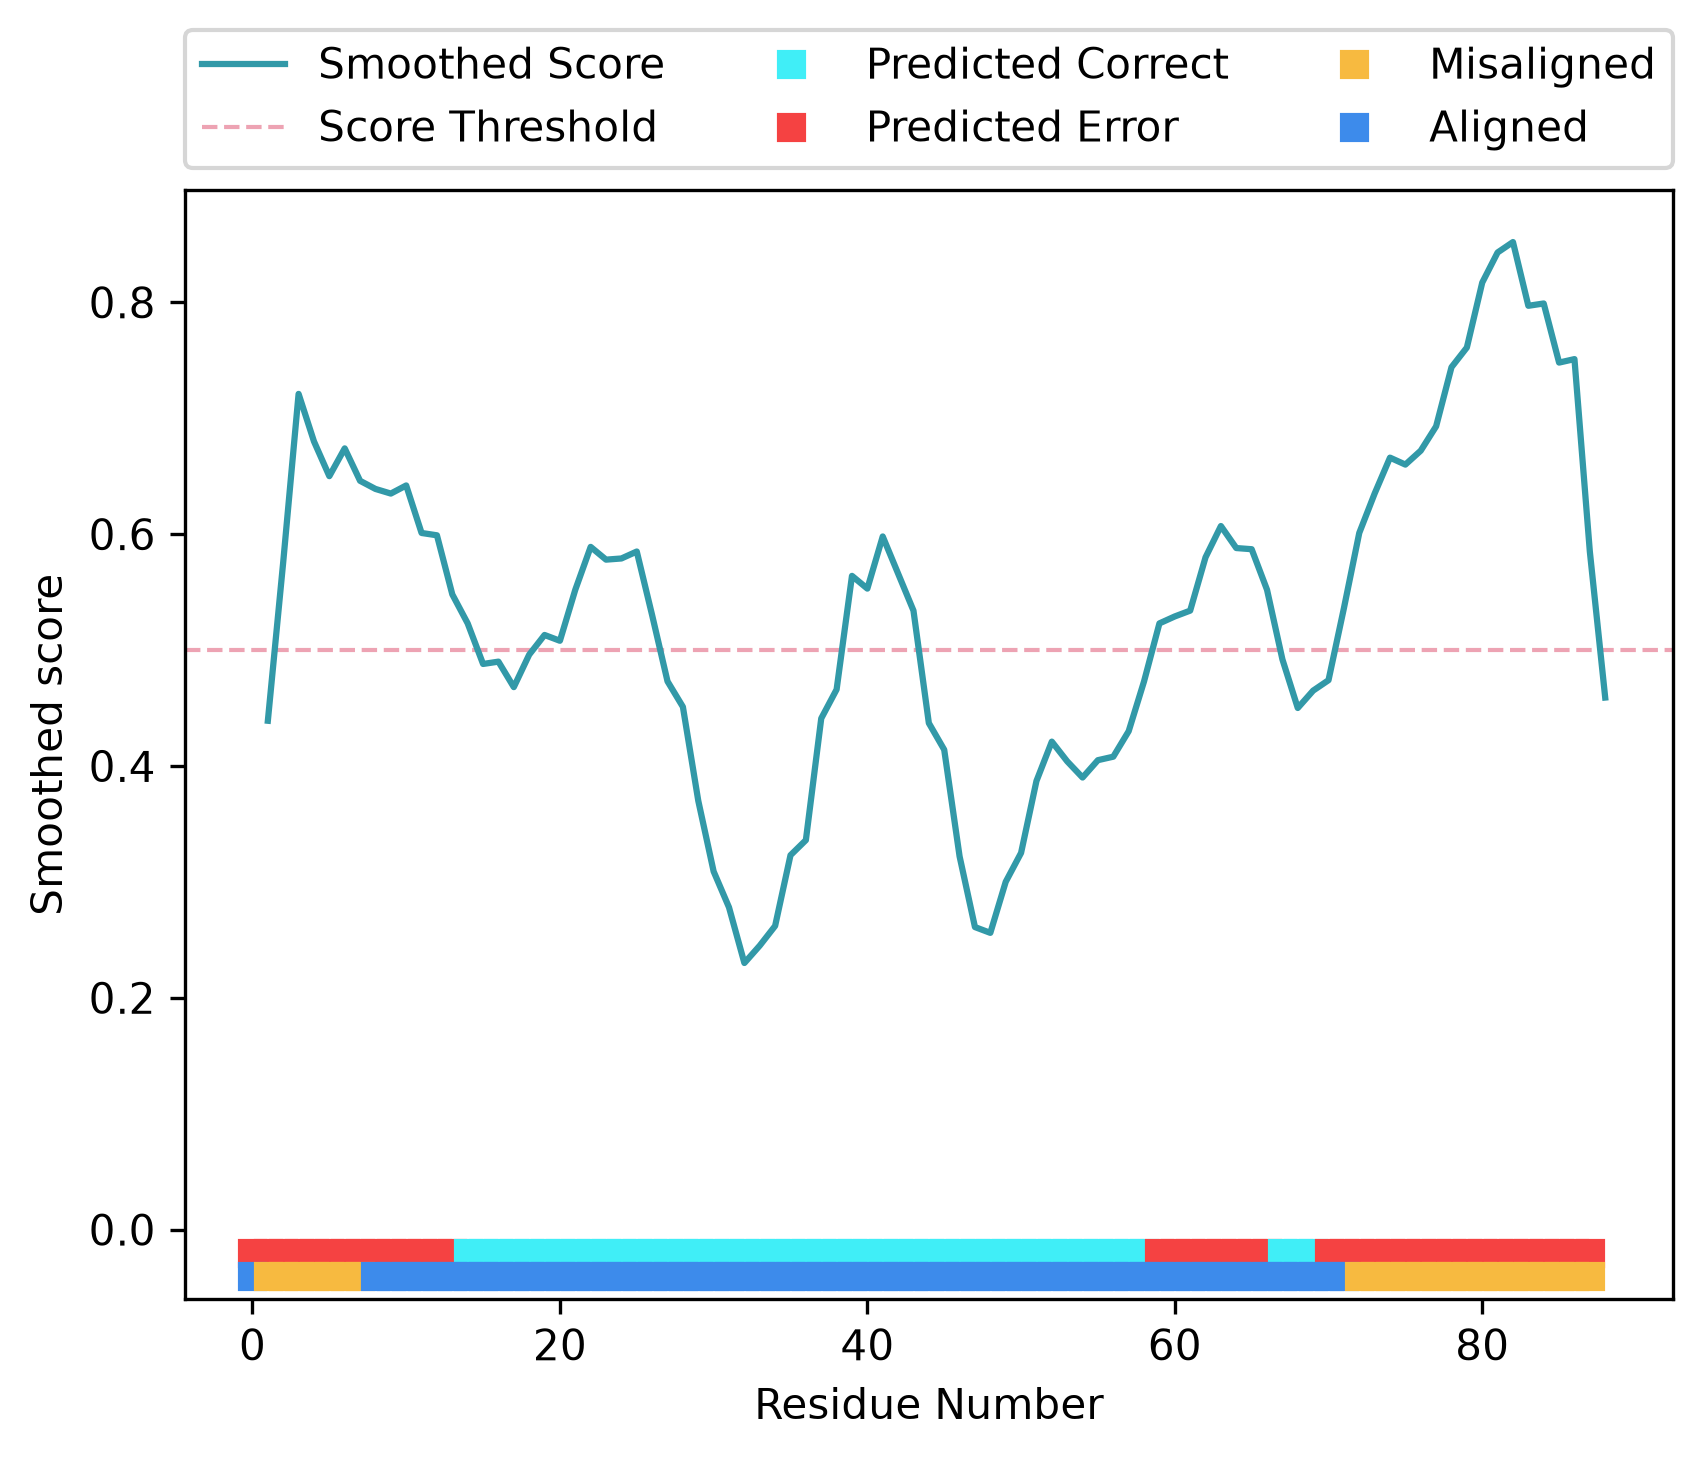
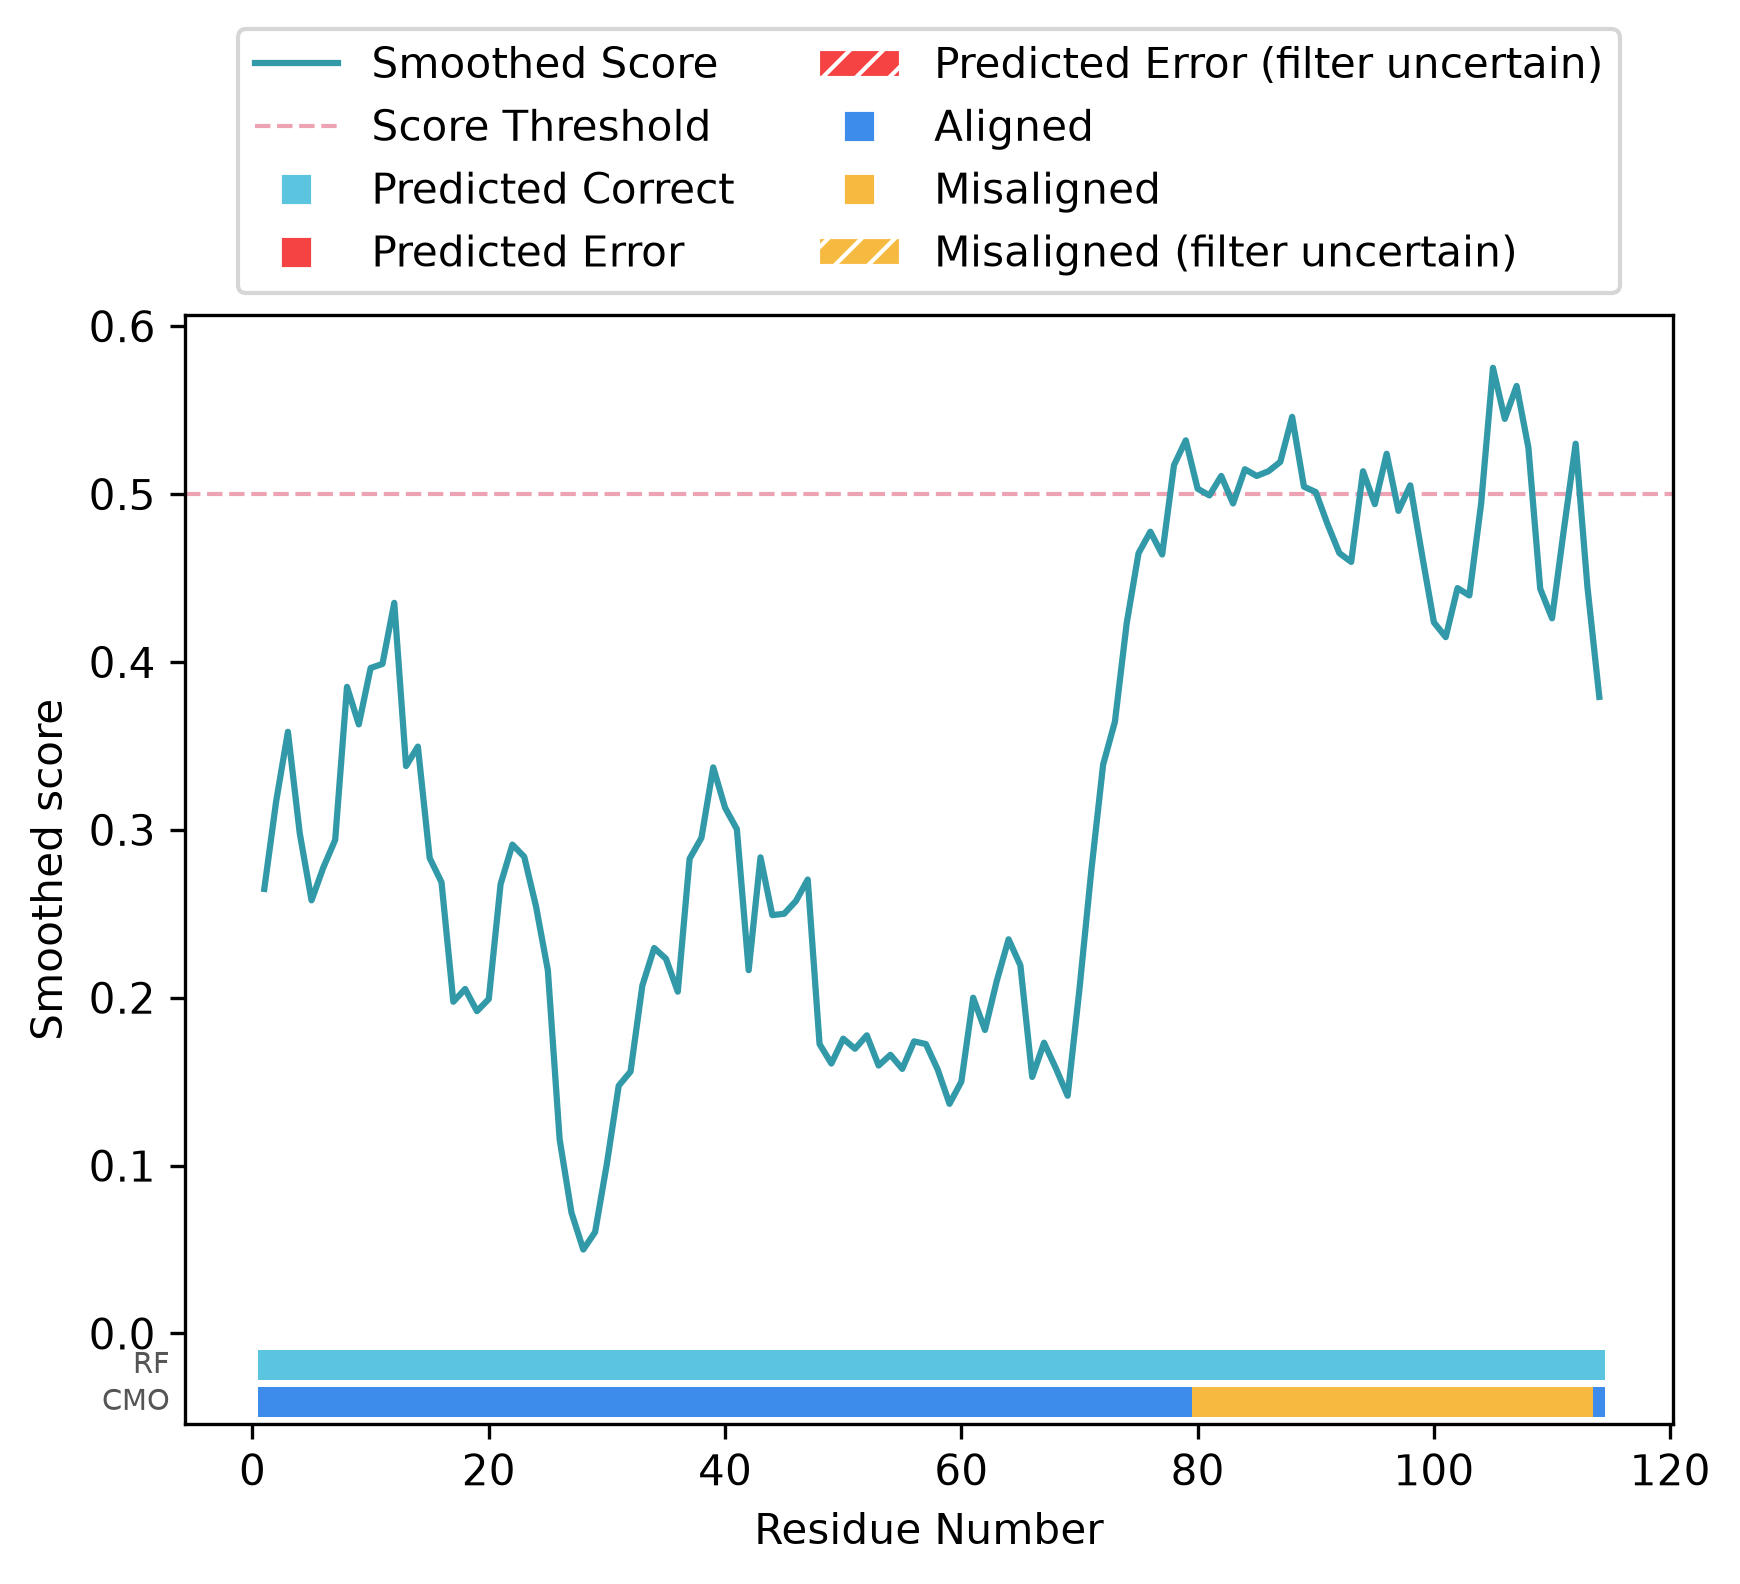
polish ModelValidationFigure: bar labels, Q-score colours, gesamt compatibility
- Add row labels (SVM/RF, CMO, Contacts, pLDDT, Q-score) on the left edge of
  each annotation bar so bars remain readable without relying on colour alone;
  label reads 'RF' for RNA and 'SVM' for protein
- Replace Q_COLORS red/lavender with light-green/deep-orange to avoid clashes
  with ERROR red and ALIGNED blue in the same figure
- Fix Gesamt_Q_score: drop -moltype= flag when the installed gesamt build does
  not support it (probed via --help, result cached per executable path); flag
  will be added automatically once a compatible build is detected
- Update example docs figures (protein and RNA) to use predicted CIF structure
  as the contact reference (enables gesamt and all filter bars); update commands
  and figure descriptions accordingly

diff --git a/conkit/plot/modelvalidation.py b/conkit/plot/modelvalidation.py
@@ -44,6 +44,7 @@ import os
 import time
 
 from matplotlib.patches import Patch
+import matplotlib.transforms as mtransforms
 
 logger = logging.getLogger(__name__)
 from Bio.PDB.DSSP import DSSP
@@ -583,7 +584,7 @@ class ModelValidationFigure(Figure):
 
         return 0
 
-    def draw(self, RUN_SVM=True, RUN_MAP_ALIGN=True, RUN_FILTERS=True, n_contacts_per_res=2, plddt_threshold=65, svm_threshold=0.5):
+    def draw(self, RUN_SVM=True, RUN_MAP_ALIGN=True, RUN_FILTERS=True, n_contacts_per_res=2, plddt_threshold=65, svm_threshold=0.5, moltype='Protein'):
 
         misaligned_residues = set(self.alignment.keys())
         residues = self.data['RESNUM']
@@ -603,6 +604,9 @@ class ModelValidationFigure(Figure):
         _BAR_STEP = _BAR_HEIGHT + _BAR_GAP
         bar_top = _BAR_TOP
 
+        classifier_label = 'RF' if moltype == 'RNA' else 'SVM'
+        _blend = mtransforms.blended_transform_factory(self.ax.transAxes, self.ax.transData)
+
         def _color_bar(resnums, color, hatch=None):
             """Draw a single-color (optionally hatched) segment of the current bar row."""
             if resnums:
@@ -611,6 +615,12 @@ class ModelValidationFigure(Figure):
                     kwargs['hatch'] = hatch
                     kwargs['edgecolor'] = 'white'
                 self.ax.bar(resnums, _BAR_HEIGHT, bottom=bar_top - _BAR_HEIGHT, **kwargs)
+
+        def _label_bar(text):
+            """Place a row label just outside the left edge of the axes."""
+            self.ax.text(-0.01, bar_top - _BAR_HEIGHT / 2, text,
+                         transform=_blend, ha='right', va='center',
+                         fontsize=7, color='#555555')
 
         if RUN_SVM:
             scores = self.data.set_index('RESNUM')['SCORE'].to_dict()
@@ -643,6 +653,7 @@ class ModelValidationFigure(Figure):
                            tools.ColorDefinitions.ERROR, hatch='///')
             else:
                 _color_bar(error_rns, tools.ColorDefinitions.ERROR)
+            _label_bar(classifier_label)
             bar_top -= _BAR_STEP
 
         if RUN_MAP_ALIGN and self._map_align_ran:
@@ -658,6 +669,7 @@ class ModelValidationFigure(Figure):
                            tools.ColorDefinitions.MISALIGNED, hatch='///')
             else:
                 _color_bar(misaligned_rns, tools.ColorDefinitions.MISALIGNED)
+            _label_bar('CMO')
             bar_top -= _BAR_STEP
 
         # Individual filter bars shown as fallback when combined filter data is unavailable.
@@ -668,6 +680,7 @@ class ModelValidationFigure(Figure):
                            tools.ColorDefinitions.LOW_CONTACTS)
                 _color_bar([r for r in present_residues if n_contacts.get(r, 0) >= n_contacts_per_res],
                            tools.ColorDefinitions.SUFFICIENT_CONTACTS)
+                _label_bar('Contacts')
                 bar_top -= _BAR_STEP
 
             if 'PLDDT' in self.data.columns:
@@ -683,6 +696,7 @@ class ModelValidationFigure(Figure):
                     plddt_groups.setdefault(color, []).append(r)
                 for color, rns in plddt_groups.items():
                     _color_bar(rns, color)
+                _label_bar('pLDDT')
                 bar_top -= _BAR_STEP
 
             if 'Q_IN_ERROR' in self.data.columns:
@@ -700,6 +714,7 @@ class ModelValidationFigure(Figure):
                     q_groups.setdefault(color, []).append(r)
                 for color, rns in q_groups.items():
                     _color_bar(rns, color)
+                _label_bar('Q-score')
                 bar_top -= _BAR_STEP
 
         self.ax.set_ylim(bottom=bar_top)

diff --git a/conkit/plot/tools.py b/conkit/plot/tools.py
@@ -86,9 +86,9 @@ class ColorDefinitions(object):
         50: "#FE7D4D"
     }
     Q_COLORS = {
-        1: "#6A7EFC",
-        0.5: "#FF5656",
-        0: "#494953"
+        1:   "#a5d6a7",  # light green  (Q > 0.5 – structures agree, error may be FP)
+        0.5: "#e64a19",  # deep orange  (Q < 0.5 – structures differ, error plausible)
+        0:   "#494953",  # near-black   (gesamt failed to align)
     }
     AA_ENCODING = {
         "A": "#882D17",
@@ -528,19 +528,37 @@ def parse_map_align_stdout(stdout):
     return alignment_dict
 
 
-def Gesamt_Q_score(predictionfile, err_border_pred, experimentfile, err_border,gesamt_exe='~/Documents/software/gesamt/build/gesamt', chain_experiment = 'A', chain_prediction = 'A', moltype='Protein'): 
-    err_length = err_border[1] - err_border[0]
-    start_exp = err_border[0] #- int(err_length/2)
-    end_exp = err_border[1] #+ int(err_length/2)
-    start_pred = err_border_pred[0] #- int(err_length/2)
-    end_pred = err_border_pred[1] #+ int(err_length/2)
+_gesamt_moltype_support_cache = {}
 
-    cmd = '{} {} -s {}/{}-{} {} -s {}/{}-{} -moltype={}'
-    logfname = '_gesamt.stdout'
-    p = subprocess.Popen(cmd.format(gesamt_exe, predictionfile, chain_prediction, start_pred, end_pred, experimentfile, chain_experiment, start_exp, end_exp, moltype), stdout=subprocess.PIPE, shell=True)
+def _gesamt_supports_moltype(gesamt_exe):
+    """Return True if this gesamt build recognises the -moltype flag."""
+    if gesamt_exe not in _gesamt_moltype_support_cache:
+        try:
+            out = subprocess.run([gesamt_exe, '-help'], capture_output=True, text=True, timeout=10)
+            supported = '-moltype' in out.stdout or '-moltype' in out.stderr
+        except Exception:
+            supported = False
+        _gesamt_moltype_support_cache[gesamt_exe] = supported
+    return _gesamt_moltype_support_cache[gesamt_exe]
+
+
+def Gesamt_Q_score(predictionfile, err_border_pred, experimentfile, err_border, gesamt_exe='gesamt', chain_experiment='A', chain_prediction='A', moltype='Protein'):
+    start_exp = err_border[0]
+    end_exp = err_border[1]
+    start_pred = err_border_pred[0]
+    end_pred = err_border_pred[1]
+
+    base_cmd = '{} {} -s {}/{}-{} {} -s {}/{}-{}'.format(
+        gesamt_exe, predictionfile, chain_prediction, start_pred, end_pred,
+        experimentfile, chain_experiment, start_exp, end_exp,
+    )
+    if _gesamt_supports_moltype(gesamt_exe):
+        base_cmd += ' -moltype={}'.format(moltype)
+
+    p = subprocess.Popen(base_cmd, stdout=subprocess.PIPE, shell=True)
     logcontents = str(p.communicate()[0])
     start_index = logcontents.find('Q-score          :')
-    end_index = logcontents.find('\\n',start_index,-1)
+    end_index = logcontents.find('\\n', start_index, -1)
     try:
         Q = float(logcontents[end_index-10:end_index])
     except Exception:

diff --git a/conkit/command_line/conkit_validate.py b/conkit/command_line/conkit_validate.py
@@ -406,7 +406,7 @@ def main():
                 validation.Run_combined_filter(filter_type = 'RF', filter_th = 0.76)
    
     logger.info(os.linesep + "Creating Figure.")
-    validation.draw(RUN_SVM=(args.RUN_SVM=='yes'), RUN_MAP_ALIGN=(args.RUN_MAP_ALIGN=='yes'), RUN_FILTERS=(args.RUN_FILTERS=='yes'), svm_threshold=args.score_threshold)
+    validation.draw(RUN_SVM=(args.RUN_SVM=='yes'), RUN_MAP_ALIGN=(args.RUN_MAP_ALIGN=='yes'), RUN_FILTERS=(args.RUN_FILTERS=='yes'), svm_threshold=args.score_threshold, moltype=args.moltype)
 
     validation.savefig(args.output, overwrite=args.overwrite)
     logger.info(os.linesep + "Validation plot written to %s", args.output)

diff --git a/docs/examples/rst/script_model_validation.rst b/docs/examples/rst/script_model_validation.rst
@@ -10,12 +10,14 @@ Basic usage
 
 .. code-block:: bash
 
-   $> conkit-validate 7l6q/7l6q.fasta fasta 7l6q/7l6q.af2 alphafold2 7l6q/7l6q_B.pdb pdb \
+   $> conkit-validate 7l6q/7l6q.fasta fasta 7l6q/fold_7l6q_model_0.cif mmcif 7l6q/7l6q_B.pdb pdb \
           --map_align_exe /usr/bin/map_align \
           --dssp_exe /usr/bin/mkdssp \
+          --gesamt_exe /usr/bin/gesamt \
+          --run_svm yes \
           --output 7l6q/7l6q.png
 
-The positional arguments are, in order: the sequence file and its format, the distance prediction file and its format, and the structure file and its format. The ``--map_align_exe`` and ``--dssp_exe`` flags provide paths to the required external executables (see :ref:`installation`).
+The positional arguments are, in order: the sequence file and its format, the distance prediction file and its format, and the structure file and its format. Here the prediction is an AlphaFold2 predicted structure in mmCIF format. The ``--map_align_exe``, ``--dssp_exe``, and ``--gesamt_exe`` flags provide paths to the required external executables (see :ref:`installation`). The ``--run_svm yes`` flag forces the classifier to run even when the input is a structure file (by default the classifier only runs with a distogram).
 
 This command will create the file ``7l6q.png``:
 
@@ -24,11 +26,13 @@ This command will create the file ``7l6q.png``:
    :align: center
    :scale: 30
 
-The output figure shows a smoothed classifier score for each residue position (turquoise line; higher score = more likely to be a modelling error), with a red dotted line at the 0.5 threshold. Below the score curve, annotation bars are drawn for each active feature:
+The output figure shows a smoothed classifier score for each residue position (turquoise line; higher score = more likely to be a modelling error), with a pink dashed line at the 0.5 threshold. Below the score curve, labelled annotation bars are drawn for each active feature:
 
-- **Classifier score bar** — red if the score was above the threshold, cyan if below
-- **CMO alignment bar** — dark blue if the sequence register in the model achieved the CMO, yellow if map_align preferred an alternative register
-- **False-positive indicator bars** — when requested, these show per-residue contact count, pLDDT confidence, or GESAMT Q-score, which help identify regions flagged as errors due to inapplicability of the method (low contacts), low confidence in the prediction, or the model having a different local conformation
+- **SVM bar** — cyan if the residue was predicted correct, red if predicted as a potential error
+- **CMO bar** — dark blue if the contact-map alignment placed the model at the correct register, amber if map_align preferred an alternative register
+- **Contacts bar** — green if the residue has sufficient contacts in the prediction, purple if it has too few (potential false-positive indicator)
+- **pLDDT bar** — AlphaFold confidence tier for each residue using the standard AlphaFold colour scheme; low-confidence residues are more likely to produce false-positive error calls
+- **Q-score bar** — local GESAMT Q-score between the prediction and the model in flagged regions; light green if Q > 0.5 (structures agree locally, error may be a false positive), deep orange if Q < 0.5 (structures differ, error signal is stronger)
 
 The same information is also printed to the terminal as a table.
 
@@ -37,22 +41,28 @@ If you want to know more about ``conkit-validate`` you may want to `watch our vi
 RNA model validation
 ^^^^^^^^^^^^^^^^^^^^^
 
-For RNA, use ``--moltype RNA``. The tool will use C1′ inter-nucleotide distances and switch to RNA-specific classifiers automatically.
+For RNA, use ``--moltype RNA``. The tool will use C1′ inter-nucleotide distances and switch to RNA-specific classifiers (Random Forest) automatically.
 
 .. code-block:: bash
 
-   $> conkit-validate 4wce/4wce_Y.fasta fasta 4wce/alphafold3_4wce_Y_distogram.npz alphafold3 \
-          4wce/alphafold3_4wce_Y_model.cif mmcif \
+   $> conkit-validate 4wce/4wce_Y.fasta fasta 4wce/alphafold3_4wce_Y_model.cif mmcif \
+          4wce/4wce_Y.pdb pdb \
           --moltype RNA \
           --map_align_exe /usr/bin/map_align \
+          --gesamt_exe /usr/bin/gesamt \
+          --areaimol_exe /usr/bin/areaimol \
+          --gemmi_exe /usr/bin/gemmi \
+          --run_svm yes \
           --output 4wce/4wce_Y.png
 
-This command validates chain Y of PDB entry 4WCE (an RNA structure) against an AlphaFold 3 distogram prediction. The output figure ``4wce_Y.png`` is shown below:
+This command validates the experimental chain Y structure of PDB entry 4WCE against an AlphaFold 3 predicted structural model. The predicted model is used both as the contact-map reference and as the target for GESAMT structural alignment. The output figure ``4wce_Y.png`` is shown below:
 
 .. figure:: ../../_static/plot_rna_model_validation.png
    :alt: 4WCE chain Y RNA Model Validation
    :align: center
    :scale: 30
+
+For RNA the figure shows two labelled bars: the **RF bar** (Random Forest classifier) and the **CMO bar** (contact-map alignment). When the combined filter has sufficient data (pLDDT + contact count + GESAMT Q-score all available), individual filter bars are collapsed into a hatched overlay directly on the RF and CMO bars: a hatched pattern on an error or misaligned residue indicates the filter is uncertain whether that call is a true error or a false positive.
 
 .. note::
 
